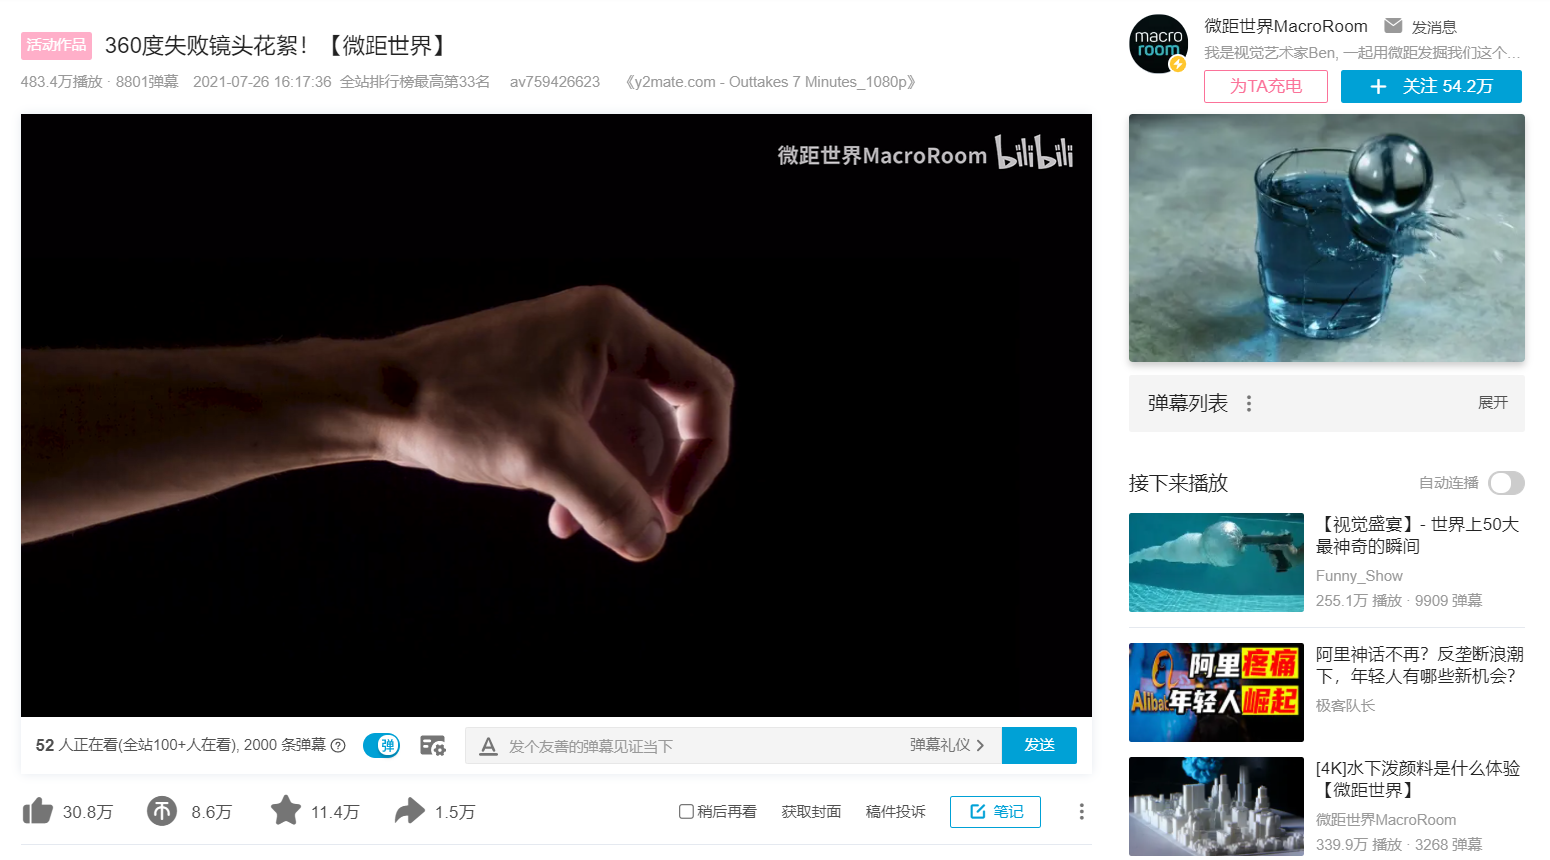
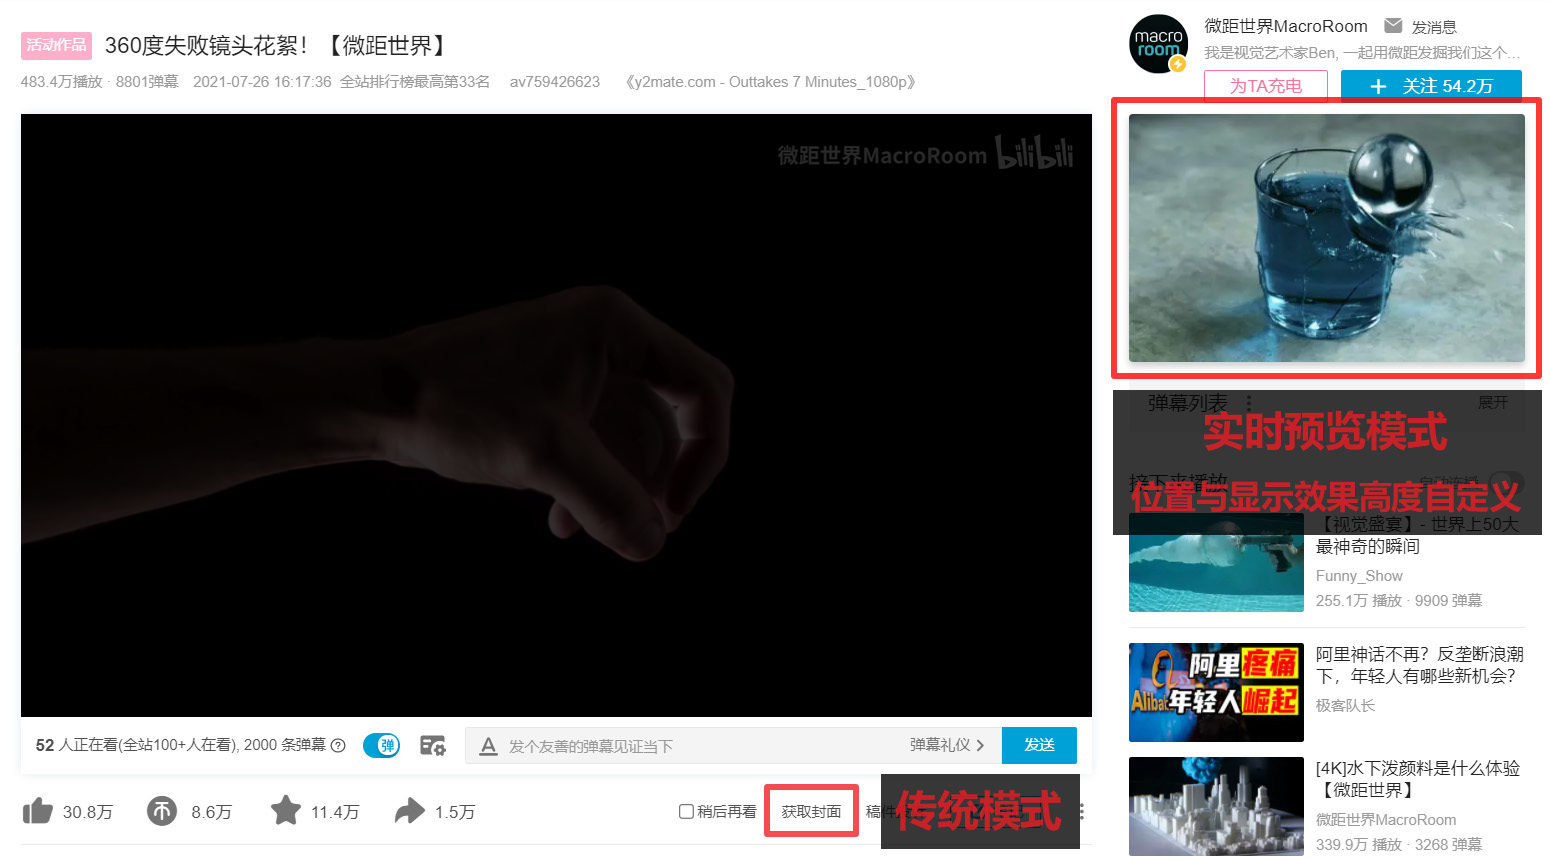
B站封面获取 5.3.0.20210815
1. 功能实现：快速复制功能——「右键」点击复制封面链接，「Ctrl+右键」点击复制封面内容。相应地，增加一个交换「右键」与「Ctrl+右键」功能选项。
2. 功能实现：在预览图上禁用右键菜单。有了快速复制功能后，右键菜单作用不大，但也不排除对此有需求的用户（如使用浏览器或第三方在右键菜单针对图片提供的功能）。
3. 工作模式：实时预览模式下，在不禁用右键菜单时，右键点击时会加载原图，以便浏览器打开一个针对原图的右键菜单（而非像之前那样打开一个针对包含原图链接的右键菜单）。
4. 工作模式：优化实时预览模式缩略图获取失败时的处理。
5. 脚本：修复脚本提示在懒加载完成时才加载的问题。

Changed region(s): [[0.4955, 0.0907, 1.0, 0.6349], [0.0, 0.3326, 0.4955, 0.6651], [0.4955, 0.8767, 0.7123, 0.9977]]

diff --git a/script/BilibiliCover/BilibiliCover.user.js b/script/BilibiliCover/BilibiliCover.user.js
@@ -1,9 +1,9 @@
 // ==UserScript==
 // @name            B站封面获取
-// @version         5.2.8.20210815
+// @version         5.3.0.20210815
 // @namespace       laster2800
 // @author          Laster2800
-// @description     获取B站各播放页面及直播间封面，支持手动及实时预览等多种工作模式，支持封面预览及点击下载，可高度自定义
+// @description     获取B站各播放页及直播间封面，支持手动及实时预览等多种模式，支持点击下载、封面预览、快速复制，可高度自定义
 // @icon            https://www.bilibili.com/favicon.ico
 // @homepage        https://greasyfork.org/zh-CN/scripts/395575
 // @supportURL      https://greasyfork.org/zh-CN/scripts/395575/feedback
@@ -53,7 +53,7 @@
   const gm = {
     id: gmId,
     configVersion: GM_getValue('configVersion'),
-    configUpdate: 20210813,
+    configUpdate: 20210815,
     config: {},
     configMap: {
       mode: { default: -1, name: '视频/番剧：工作模式' },
@@ -65,6 +65,8 @@
       preview: { default: true, name: '视频/番剧：封面预览', checkItem: true },
       previewLive: { default: true, name: '直播间：封面预览', checkItem: true },
       bangumiSeries: { default: false, name: '番剧：获取系列封面而非分集封面', checkItem: true },
+      switchQuickCopy: { default: false, name: '全局：交换「右键」与「Ctrl+右键」功能', checkItem: true, needNotReload: true },
+      disableContextMenu: { default: true, name: '全局：在预览图上禁用右键菜单', checkItem: true },
     },
     runtime: {
       /** @type {'legacy' | 'realtime'} */
@@ -89,7 +91,7 @@
       page_live: /live\.bilibili\.com\/\d+([/?#]|$)/, // 只含具体的直播间页面
     },
     const: {
-      hintText: '左键：下载或在新标签页中打开封面。\n中键：在新标签页中打开封面。\n右键：对封面链接进行复制/保存等操作。',
+      hintText: '左键：下载或在新标签页中打开封面\n中键：在新标签页中打开封面\n右键：复制封面链接/内容\nCtrl+右键：复制封面内容/链接',
       errorMsg: '获取失败，请尝试在页面加载完成后获取',
       customMode: 32767,
       fadeTime: 200,
@@ -146,7 +148,7 @@
       const mode = gm.config.mode
       rt.layer = mode > 1 ? 'realtime' : 'legacy'
       rt.preview = api.web.urlMatch(gm.regex.page_live) ? gm.config.previewLive : gm.config.preview
-      rt.modeName = { '-1': '初始化', '1': '传统', '2': '实时预览' }[mode] ?? (mode == gm.const.customMode ? '自定义' : '未知')
+      rt.modeName = { '-1': '初始化', '1': '传统', '2': '实时预览', [gm.const.customMode]: '自定义' }[mode] ?? '未知'
       if (rt.layer == 'realtime') {
         for (const s of ['Selector', 'Position', 'Style']) {
           rt['realtime' + s] = mode == 2 ? gm.configMap['customMode' + s].default : gm.config['customMode' + s]
@@ -222,7 +224,7 @@
         }
 
         // 功能性更新后更新此处配置版本
-        if (gm.configVersion < 20210813) {
+        if (gm.configVersion < 20210815) {
           GM_notification({
             text: '功能性更新完毕，您可能需要重新设置脚本。点击查看更新日志。',
             onclick: () => window.open(gm.url.gm_changelog),
@@ -465,7 +467,7 @@
         },
 
         /**
-         * 下载图片
+         * 添加下载图片事件
          * @param {HTMLElement} target 触发元素
          */
         addDownloadEvent(target) {
@@ -475,7 +477,6 @@
             target.addEventListener('mousedown', function(e) {
               if (target.loaded && gm.config.download && e.button == 0) {
                 e.preventDefault()
-                target.dispatchEvent(new Event('mouseleave'))
                 _self.download(this.href, document.title)
               }
             })
@@ -486,6 +487,56 @@
               }
             })
             target._downloadEvent = true
+          }
+        },
+
+        /**
+         * 添加复制事件
+         * @param {HTMLElement} target 触发元素
+         */
+        addCopyEvent(target) {
+          if (!target._copyLinkEvent) {
+            target.addEventListener('mousedown', async function(e) {
+              if (target.loaded && e.button == 2) {
+                e.preventDefault()
+                let ctrl = e.ctrlKey
+                if (gm.config.switchQuickCopy) {
+                  ctrl = !ctrl
+                }
+                if (ctrl) {
+                  // 借助 image 中转避免跨域；网络请求其实更简单，但还是防一手某些封面图不在 i0.hdslb.com 的情况
+                  // 理论上来说这里可以复用 realtime-image 或者 preview，但是很麻烦，再考虑到图片缓存也没必要
+                  const image = new Image()
+                  image.crossOrigin = 'Anonymous'
+                  image.src = target.href
+                  image.addEventListener('load', function() {
+                    const canvas = document.createElement('canvas')
+                    const ctx = canvas.getContext('2d')
+                    canvas.width = this.width
+                    canvas.height = this.height
+                    ctx.drawImage(image, 0, 0)
+                    canvas.toBlob(async blob => {
+                      try {
+                        await navigator.clipboard.write([new ClipboardItem({ [blob.type]: blob })])
+                        api.message.create('已复制封面内容')
+                      } catch (e) {
+                        api.logger.warn(e)
+                        api.message.create('当前浏览器不支持复制图片')
+                      }
+                    })
+                  })
+                } else {
+                  try {
+                    await navigator.clipboard.writeText(target.href)
+                    api.message.create('已复制封面链接')
+                  } catch (e) {
+                    // 只要脚本管理器有向浏览器要剪贴板权限就没问题
+                    api.logger.warn(e)
+                    api.message.create('当前浏览器不支持剪贴板')
+                  }
+                }
+              }
+            })
           }
         },
 
@@ -519,6 +570,7 @@
             target.target = '_blank'
             target.loaded = true
             this.addDownloadEvent(target)
+            this.addCopyEvent(target)
             if (target.img) {
               if (gm.runtime.realtimeQuality != 'best') {
                 target.img.src = `${url}@${gm.runtime.realtimeQuality}.webp`
@@ -539,7 +591,7 @@
             this.addErrorEvent(target)
             if (target.img) {
               target.img.removeAttribute('src')
-              target.img.lossless = ''
+              target.img.lossless = null
             }
             if (preview) {
               preview.removeAttribute('src')
@@ -641,6 +693,16 @@
               this.style.height = '100%'
             }
           })
+
+          // 快速复制相关
+          preview.addEventListener('mousedown', function(e) {
+            if (e.button == 2) {
+              target.dispatchEvent(_self.cloneEvent(e, ['button']))
+            }
+          })
+          if (gm.config.disableContextMenu) {
+            _self.disableContextMenu(preview)
+          }
           return preview
         },
 
@@ -654,7 +716,7 @@
           cover.id = `${gm.id}-realtime-cover`
           cover.img = cover.appendChild(document.createElement('img'))
           cover.img.addEventListener('error', function() {
-            if (gm.runtime.realtimeQuality != 'best' && this.src != this.lossless) {
+            if (this.lossless && this.src != this.lossless) {
               if (gm.config.mode == gm.const.customMode) {
                 api.message.create(`缩略图获取失败，使用原图进行替换！请检查「${gm.runtime.realtimeQuality}」是否为有效的图片质量参数。可能是正常现象，因为年代久远的视频封面有可能不支持缩略图。`, { ms: 4000 })
               } else {
@@ -662,12 +724,50 @@
               }
               api.logger.warn(['缩略图获取失败，使用原图进行替换！', this.src, this.lossless])
               this.src = this.lossless
+              this.lossless = null
             }
           })
           if (gm.runtime.realtimeStyle != 'disable') {
             api.dom.addStyle(gm.runtime.realtimeStyle)
           }
+          if (gm.config.disableContextMenu) {
+            this.disableContextMenu(cover)
+          } else if (gm.runtime.realtimeQuality != 'best') {
+            // 将缩略图替换为原图，以便右键菜单获取到正确的图像
+            cover.img.addEventListener('mousedown', function(e) {
+              if (e.button == 2 && this.lossless && this.src != this.lossless) {
+                this.src = this.lossless
+                this.lossless = null
+              }
+            })
+          }
           return cover
+        },
+
+        /**
+         * 禁用右键菜单
+         * @param {HTMLElement} target 目标元素
+         */
+        disableContextMenu(target) {
+          target.addEventListener('contextmenu', function(e) {
+            e.preventDefault()
+          })
+        },
+
+        /**
+         * 克隆事件
+         *
+         * 直接复用 event 在某些情况下会出问题，克隆可避免之。
+         * @param {Event} event 原事件
+         * @param {string[]} attrNames 需克隆的属性值
+         * @returns {Event} 克隆事件
+         */
+        cloneEvent(event, attrNames = []) {
+          const cloned = new Event(event.type)
+          for (const name of attrNames) {
+            cloned[name] = event[name]
+          }
+          return cloned
         },
 
         /**
@@ -683,33 +783,33 @@
          * @param {coverInteractionPre} pre 封面交互前置处理
          */
         async proxyCoverInteraction(target, pre) {
+          const _self = this
           addEventListeners()
+          this.disableContextMenu(target)
 
           async function main(event) {
             if (!await pre(event)) return
             removeEventListeners()
             if (event.type == 'mousedown') {
-              let needDispatch = false
+              // 鼠标左键点击链接可通过 click 拦截但没必要，中键点击链接无法通过 js 拦截不过也没必要拦
+              // 同样地，无法通过 mousedown 事件中让浏览器模拟出链接被左键或中键点击的结果，需手动模拟
+              let needDispatch = true
               if (event.button == 0) {
-                if (gm.config.download || !target.loaded) {
-                  needDispatch = true
-                } else {
+                if (!gm.config.download && target.loaded) {
                   window.open(target.href)
+                  needDispatch = false
                 }
               } else if (event.button == 1) {
                 if (target.loaded) {
                   window.open(target.href)
-                } else {
-                  needDispatch = true
+                  needDispatch = false
                 }
               }
               if (needDispatch) {
-                const evt = new Event('mousedown') // 新建一个事件而不是复用 event，以避免意外情况
-                evt.button = 0
-                target.dispatchEvent(evt) // 无法触发链接点击跳转
+                target.dispatchEvent(_self.cloneEvent(event, ['button', 'ctrlKey']))
               }
             } else if (event.type == 'mouseenter') {
-              target.dispatchEvent(new Event('mouseenter'))
+              target.dispatchEvent(_self.cloneEvent(event))
             }
             addEventListeners()
           }
@@ -755,6 +855,7 @@
         cover = await _self.method.createRealtimeCover()
       }
       const preview = gm.runtime.preview && _self.method.createPreview(cover)
+      cover.title = gm.const.hintText
 
       if (api.web.urlMatch(gm.regex.page_videoNormalMode)) {
         api.wait.executeAfterElementLoaded({
@@ -839,6 +940,7 @@
         cover = await _self.method.createRealtimeCover()
       }
       const preview = gm.runtime.preview && _self.method.createPreview(cover)
+      cover.title = gm.const.hintText
 
       if (gm.config.bangumiSeries) {
         const setCover = img => _self.method.setCover(cover, preview, img.src.replace(/@[^@]*$/, ''))
@@ -936,6 +1038,7 @@
       cover.className = `${gm.id}-live-cover-btn`
       container.insertAdjacentElement('afterbegin', cover)
       const preview = gm.runtime.preview && _self.method.createPreview(cover)
+      cover.title = gm.const.hintText
 
       _self.method.proxyCoverInteraction(cover, async event => {
         try {
@@ -992,7 +1095,7 @@
           top: 50%;
           left: 50%;
           transform: translate(-50%, -50%);
-          z-index: 142857;
+          z-index: 32767;
           max-width: 65vw; /* 自适应宽度和高度 */
           max-height: 100vh;
           border-radius: 8px;
@@ -1001,12 +1104,6 @@
           transition: opacity ${gm.const.fadeTime}ms ease-in-out;
           cursor: pointer;
           box-shadow: #000000AA 0px 3px 6px;
-        }
-
-        /* 禁止交互，避免用户使用右键获取到 <img> 上的预览图 */
-        /* 不写进 defaultRealtimeStyle 中，而是作为全局样式减少自定义模式工作量 */
-        #${gm.id}-realtime-cover img {
-          pointer-events: none;
         }
       `, doc)
     }

diff --git a/script/BilibiliCover/changelog.md b/script/BilibiliCover/changelog.md
@@ -2,9 +2,25 @@
 
 本日志只记录用户友好的更新说明，影响不大的问题修复与修改不作记录，具体修改见 [提交记录](https://gitee.com/liangjiancang/userscript/commits/master/script/BilibiliCover)。
 
+说明：
+
+1. 「自定义模式」的底层机制为「实时预览模式」。若无特殊说明，针对后者的改动同样会施加到前者上。
+
+## V5.3
+
+1. 功能实现：快速复制功能——「右键」点击复制封面链接，「Ctrl+右键」点击复制封面内容。相应地，增加一个交换「右键」与「Ctrl+右键」功能选项。
+2. 功能实现：在预览图上禁用右键菜单。有了快速复制功能后，右键菜单作用不大，但也不排除对此有需求的用户（如使用浏览器或第三方在右键菜单针对图片提供的功能）。
+3. 工作模式：实时预览模式下，在不禁用右键菜单时，右键点击时会加载原图，以便浏览器打开一个针对原图的右键菜单（而非像之前那样打开一个针对包含原图链接的右键菜单）。
+4. 工作模式：优化实时预览模式缩略图获取失败时的处理。
+5. 脚本：修复脚本提示在懒加载完成时才加载的问题。
+
+> 快速复制功能其实是「无法将右键菜单弹出的时间点延后至封面获取成功后」的妥协产物，目的是为了解决在特定设置下在某些页面中第一次激活的右键菜单获取不到正确链接信息的问题——不过实现出来却发现意外地好用。
+>
+> 实际上，以上问题并没有修复，而是以「强制禁用传统模式封面按钮上的右键菜单」掩盖过去。但这是合理的，因为此处的「封面按钮」是并不是一张图片，浏览器及第三方在右键菜单中为图片提供的各种便利功能本来就无法在它上面激活。
+
 ## V5.2
 
-1. 工作模式：修复实时预览模式与自定义模式下，右键菜单中获取到的图片为预览图的问题。
+1. 工作模式：修复实时预览模式下，右键菜单中获取到的图片为预览图的问题。
 2. 工作模式：选择更合适的实时预览模式缩略图质量。
 3. 工作模式：修复传统模式下，鼠标中键点击按钮获取封面失败时没有提示的问题。
 4. 脚本设置：重新设计脚本选项的分类逻辑。现在封面预览功能可以针对直播间及非直播间分别设置了。

diff --git a/script/BilibiliCover/README.md b/script/BilibiliCover/README.md
@@ -4,7 +4,7 @@
 
 其他脚本：**[[DEBUG] 信息显式化](https://greasyfork.org/zh-CN/scripts/429521)**、**[S1战斗力屏蔽](https://greasyfork.org/zh-CN/scripts/394407)**，以及 **[杂项](https://greasyfork.org/zh-CN/scripts?language=all&set=470770)**
 
-获取B站各播放页面及直播间封面，支持手动及实时预览等多种工作模式，支持封面预览及点击下载，可高度自定义。一图胜千言，无须多言。求好评，求收藏💔。点击查看 [更新日志](https://gitee.com/liangjiancang/userscript/blob/master/script/BilibiliCover/changelog.md)。
+获取B站各播放页及直播间封面，支持手动及实时预览等多种模式，支持点击下载、封面预览、快速复制，可高度自定义。一图胜千言，无须多言。求好评，求收藏💔。点击查看 [更新日志](https://gitee.com/liangjiancang/userscript/blob/master/script/BilibiliCover/changelog.md)。
 
 ![脚本说明](https://gitee.com/liangjiancang/userscript/raw/master/script/BilibiliCover/screenshot/脚本说明.jpg)
 
